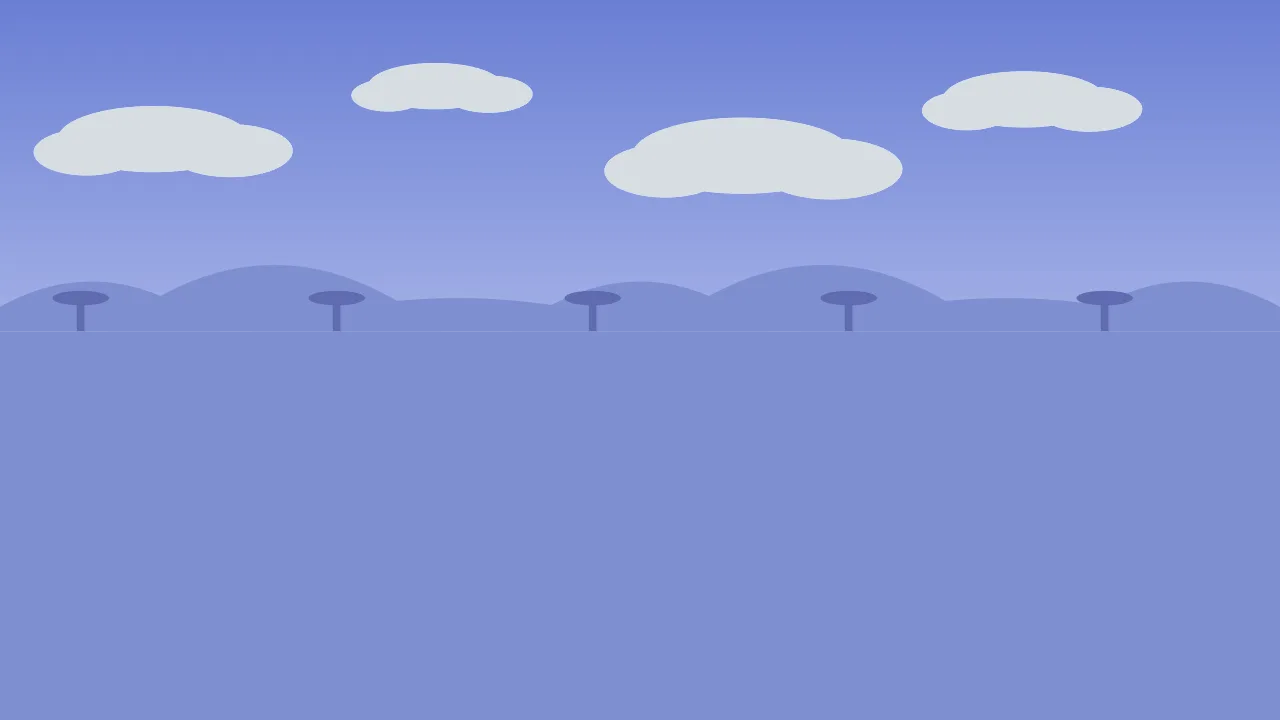
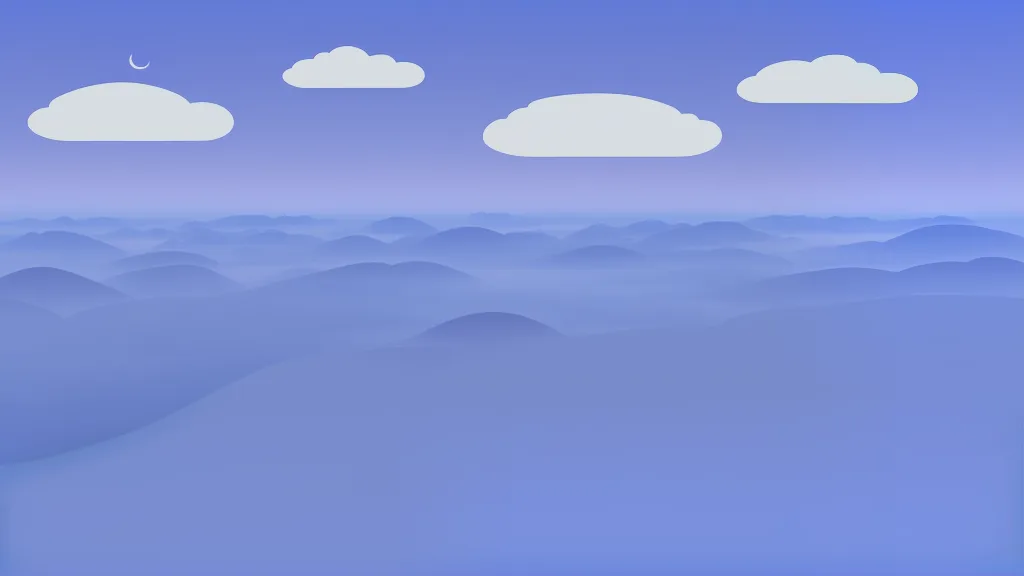
Два светлых неба новых миров через img2img; документация
Шкала потолков растра оказалась непрерывной: 0.704 / 0.62 / 0.45 / 0.30.
Деление на «день и ночь» было упрощением, видным только на двенадцати зонах.

diff --git a/sw.js b/sw.js
@@ -21,7 +21,7 @@
 // меняет, и перекачивать нечего.
 //
 // Разбор: docs/offline-and-build.md
-const CACHE = 'run-v148';
+const CACHE = 'run-v149';
 
 /* Имя задаётся ОТПЕЧАТКОМ содержимого vendor/, а не номером сборки, и это и
    есть весь смысл разделения: то же имя — те же байты по построению, значит

diff --git a/js/version.js b/js/version.js
@@ -1,3 +1,3 @@
 // Генерируется tools/make-sw.mjs вместе с номером кэша. Руками не править.
-export const VERSION = 'run-v148';
-export const BUILT_AT = '2026-10-16 21:51';
+export const VERSION = 'run-v149';
+export const BUILT_AT = '2026-10-16 21:53';

diff --git a/docs/trophy-and-worlds.md b/docs/trophy-and-worlds.md
@@ -227,3 +227,33 @@
 **Светлячки теперь в ДВУХ ночных зонах**, и правило не «одна зона», а «не
 везде»: механизм тот же `needs`, дневных зон он по-прежнему не касается, и
 проверка идёт по всем четырём.
+
+## Миры «Подводная долина» и «Звёздная дорога»
+
+**Лестница миров закрыта: все четыре собраны, зон двенадцать.** Ни один из
+двух новых миров не вводит новой ФОРМЫ обочины — оба собраны из камня, столба,
+ели, куста, цветка и тотема. Отличаются они палитрой и небом, и этого хватает:
+зону делает зоной именно это.
+
+**Палитры прогнаны через ПОЛНЫЙ контракт ДО написания кода.** Семь нарушений
+нашлись в черновике. Но контракт поймал ещё две вещи уже в работе, и обе
+поучительны:
+
+- **цветущая обочина выходила ДОРОЖЕ обычной** в мелководье и бездне — камень
+  там стоит одну заливку против двух у остальных, и выросшая сумма весов
+  разбавляла его долю. Та же ловушка, что в дюнах на этапе 2: сумма правимых
+  весов меняться не должна;
+- **куст в бездне сливался с силуэтом хребта** (0.015 против 0.021). Куста не
+  было в моём предпроверочном списке видов — он появляется только с призом, —
+  а контракт проверяет ВСЕ виды зоны. Предпроверка хороша ровно настолько,
+  насколько полон её список.
+
+**Шкала потолков растра оказалась непрерывной.** Было «дневной или ночной»,
+стало четыре значения: 0.704 у светлых, 0.62 у снежного поля, 0.45 у пояса
+комет, 0.30 у четырёх тёмных. Поле `skyClampTo` ввёл этап 3 ради второй тёмной
+зоны — с двенадцатью зонами выяснилось, что деление на «день и ночь» было
+упрощением.
+
+**Худший кадр переехал в звёздную дорогу** (117 против 116 в холмах): новых
+форм мир не вводит, но состав его обочины чуть дороже. Счётчик перебирает все
+собранные миры именно ради этого.

diff --git a/README.md b/README.md
@@ -15,7 +15,7 @@
 node serve.js                     # http://localhost:8099 + POST /save для инструментов
 ```
 
-Фон неба собирается отдельно и в обычной работе не нужен. Растров ШЕСТЬ, по
+Фон неба собирается отдельно и в обычной работе не нужен. Растров ДВЕНАДЦАТЬ, по
 одному на зону (`SKY_FILES` в `js/theme.js`), и каждый идёт тем же
 путём — init-полоса в цветах своей зоны, img2img, перегон в WebP с зажимом
 светлоты:
@@ -35,8 +35,8 @@ node tools/ed-generate.mjs --init tools/init/band-sunsetDunes.png --strength 0.5
 Последний аргумент — потолок светлоты, и он обязателен: без него облака
 остаются чисто белыми и начинают спорить с проёмом. **Числом его не писать** —
 `skyClamp(зона)` берёт его из `js/theme.js`, где он и живёт: у дневных зон
-выводится границей `GAP_GUARD` от проёма (сейчас 0.704), а у трёх зон задан
-полем `skyClampTo`: у обеих ночных 0.30, у снежного поля 0.62 — его небо
+выводится границей `GAP_GUARD` от проёма (сейчас 0.704), а у шести зон задан
+полем `skyClampTo`: у четырёх тёмных 0.30, у пояса комет 0.45, у снежного поля 0.62 — его небо
 занимает полкадра и стоит в 0.011 от потолка, а WebP выталкивает пиксели
 вверх на 0.047, иначе её облака вышли бы многократно светлее самого
 светлого цвета её же палитры. Вписанное в строку запуска число было копией без

diff --git a/docs/sky-and-art.md b/docs/sky-and-art.md
@@ -11,7 +11,7 @@
 **Фоновый растр не обязателен, и это не недоделка.** Нет файла зоны —
 `drawSky` рисует полосы и силуэт холмов в цветах ЭТОЙ зоны, игра работает
 полностью. Арт собирается отдельным прогоном Easy Diffusion, и забег не имеет
-права от него зависеть. Растров ШЕСТЬ, по одному на зону (`SKY_FILES` в
+права от него зависеть. Растров ДВЕНАДЦАТЬ, по одному на зону (`SKY_FILES` в
 `js/theme.js`); недостающий роняет качество фона одной зоны и больше ничего —
 в ИГРЕ. Набор при этом его не прощает: группа «тема» требует имя файла для
 каждой зоны, а набор оболочки — чтобы файл лежал на диске и попал в

diff --git a/docs/view-and-zones.md b/docs/view-and-zones.md
@@ -102,8 +102,8 @@ Miracast просто исчезает через кадр.
 светлоты для решающих цветов проверен один раз и держится во всех зонах по
 построению.
 
-**Зон теперь ШЕСТЬ — три в холмах и три в ледяных горах, — и контракт палитры
-идёт по каждой.** Цикл берёт `Object.keys(THEME)`, поэтому новая зона попадает
+**Зон теперь ДВЕНАДЦАТЬ — по три в каждом из четырёх миров, — и контракт
+палитры идёт по каждой.** Цикл берёт `Object.keys(THEME)`, поэтому новая зона попадает
 под все проверки сама; на ледяных он и сработал четырежды. Разбор мира — в
 [`trophy-and-worlds.md`](trophy-and-worlds.md).
 
